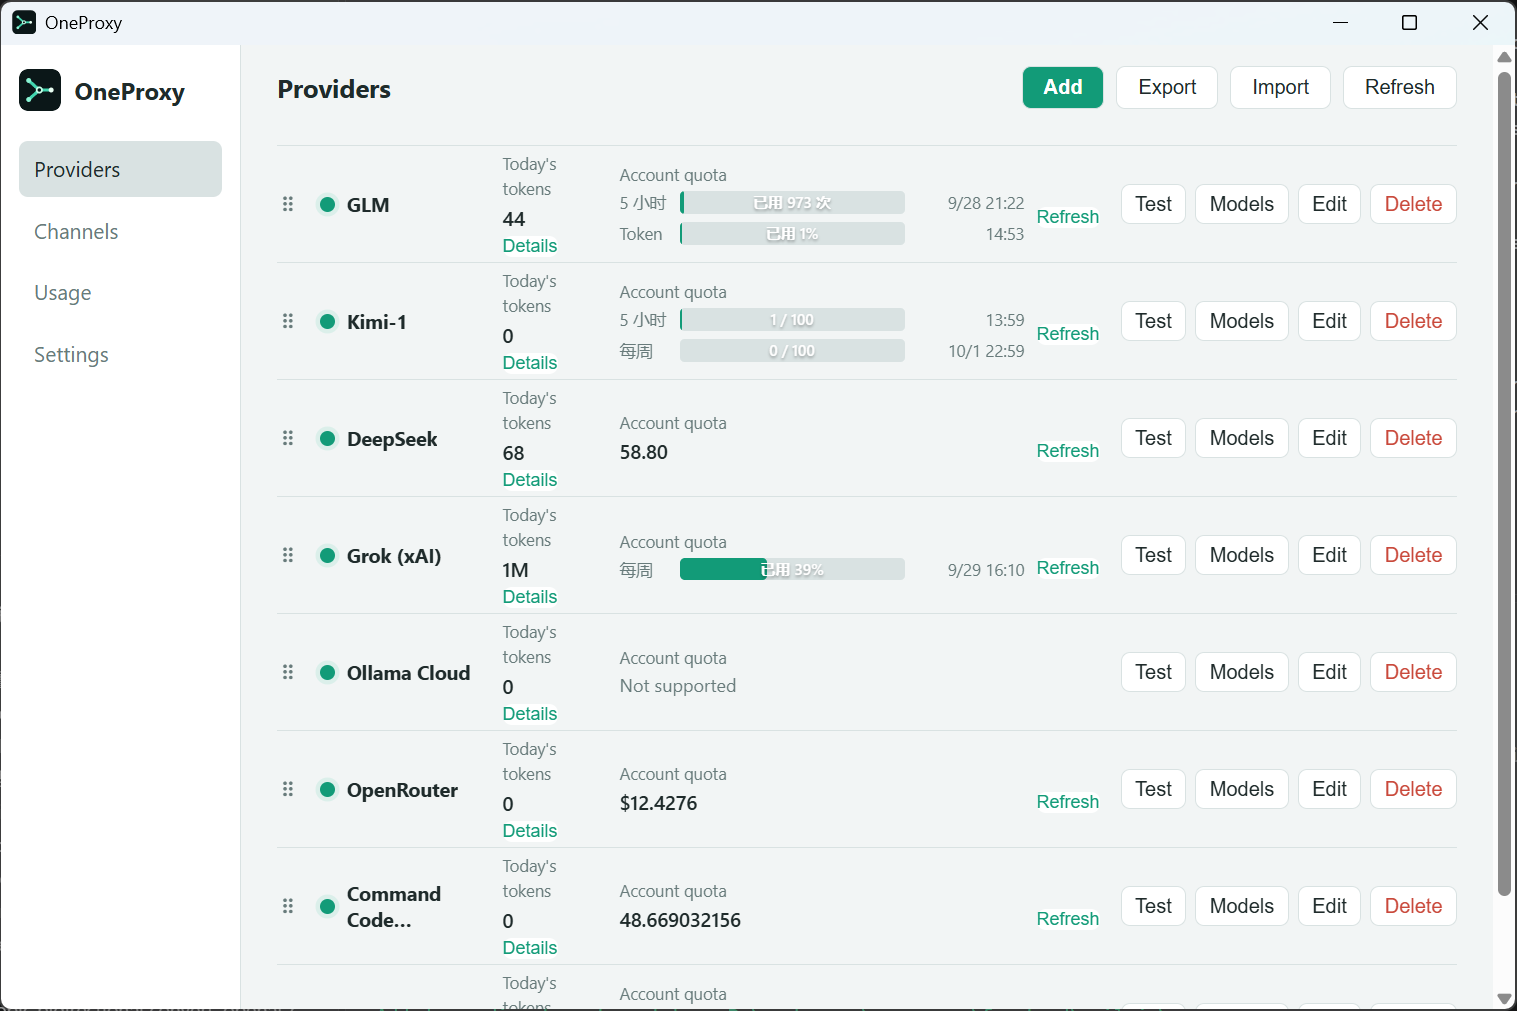
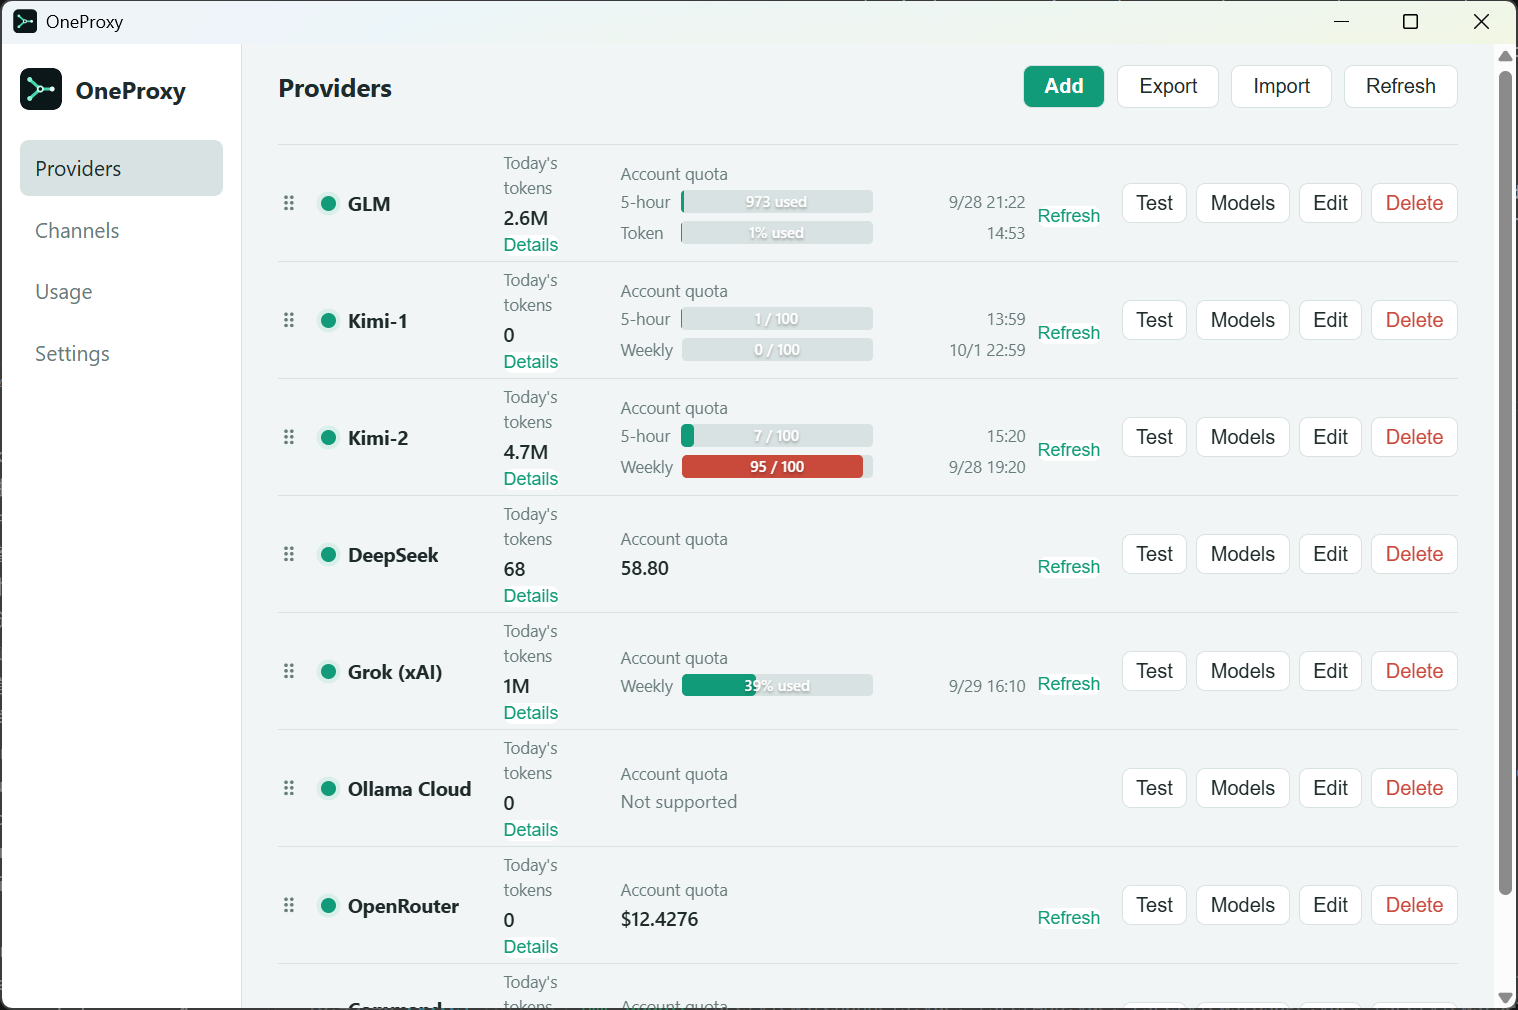
docs: 更新英文版提供商页面截图，同步 wails 生成的类型与构建产物

diff --git a/frontend/wailsjs/go/models.ts b/frontend/wailsjs/go/models.ts
@@ -158,8 +158,12 @@ export namespace provider {
 export namespace service {
 	
 	export class BalanceMetric {
-	    label: string;
-	    value: string;
+	    label?: string;
+	    labelKey?: string;
+	    labelArgs?: string[];
+	    value?: string;
+	    valueKey?: string;
+	    valueArgs?: string[];
 	    percent?: number;
 	    resetAt?: string;
 	
@@ -170,7 +174,11 @@ export namespace service {
 	    constructor(source: any = {}) {
 	        if ('string' === typeof source) source = JSON.parse(source);
 	        this.label = source["label"];
+	        this.labelKey = source["labelKey"];
+	        this.labelArgs = source["labelArgs"];
 	        this.value = source["value"];
+	        this.valueKey = source["valueKey"];
+	        this.valueArgs = source["valueArgs"];
 	        this.percent = source["percent"];
 	        this.resetAt = source["resetAt"];
 	    }

diff --git a/frontend/dist/index.html b/frontend/dist/index.html
@@ -6,8 +6,8 @@
     <meta name="color-scheme" content="light" />
     <title>OneProxy</title>
     <link rel="icon" type="image/svg+xml" href="/assets/oneproxy-mark-C-A0t2T8.svg" />
-    <script type="module" crossorigin src="/assets/index-C_dWSp8e.js"></script>
-    <link rel="stylesheet" crossorigin href="/assets/index-B73yu6c3.css">
+    <script type="module" crossorigin src="/assets/index-D22h7EvQ.js"></script>
+    <link rel="stylesheet" crossorigin href="/assets/index-DdLGpzuM.css">
   </head>
   <body>
     <div id="app"></div>
